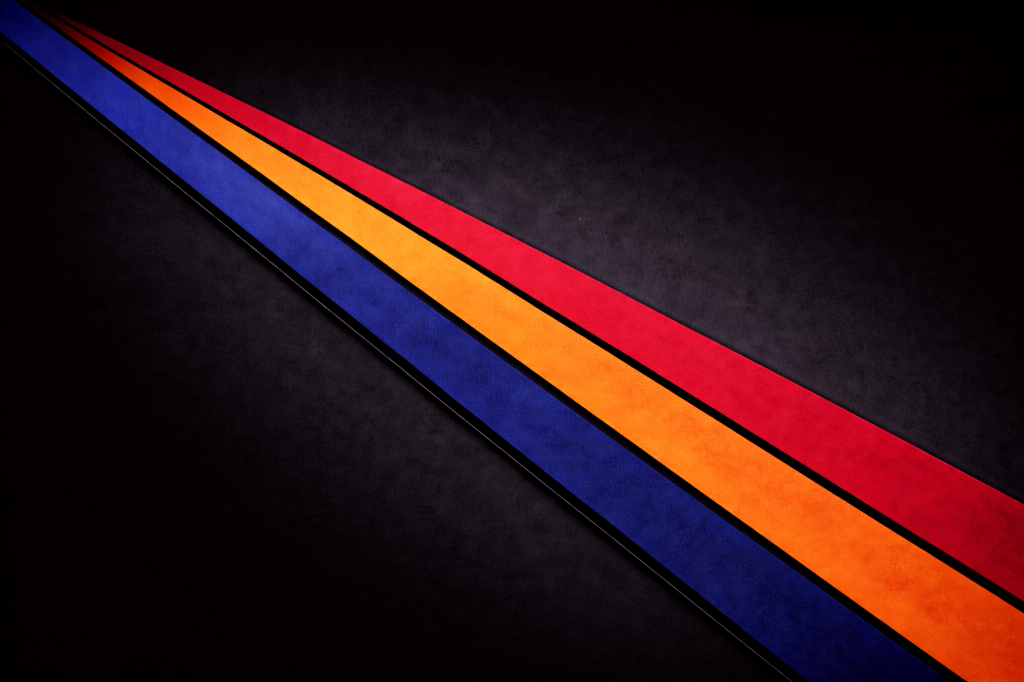
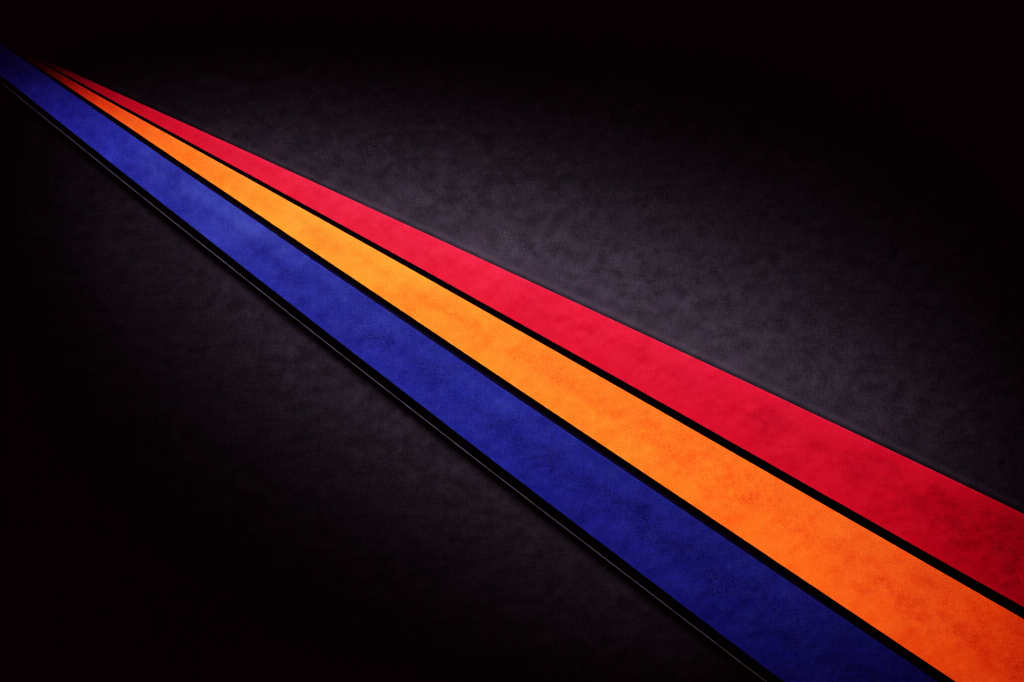
Update dashboard background image and fix scaling

Changed region(s): [[0.0, 0.0, 1.0, 1.0]]

diff --git a/src/app/(user)/layout.tsx b/src/app/(user)/layout.tsx
@@ -103,7 +103,10 @@ function DashboardContent({ children }: { children: React.ReactNode }) {
             {/* Fixed Background Image */}
             <div
                 className="fixed inset-0 -z-20 bg-cover bg-center bg-no-repeat"
-                style={{ backgroundImage: "url('/dashboard-bg.png')" }}
+                style={{
+                    backgroundImage: "url('/dashboard-bg.png')",
+                    backgroundColor: "#0a0a0a"
+                }}
             />
 
             <DashboardNav />

diff --git a/src/app/admin/layout.tsx b/src/app/admin/layout.tsx
@@ -23,7 +23,8 @@ function AdminContent({ children }: { children: React.ReactNode }) {
                     backgroundImage: 'url("/dashboard-bg.png")',
                     backgroundSize: 'cover',
                     backgroundPosition: 'center',
-                    backgroundAttachment: 'fixed'
+                    backgroundRepeat: 'no-repeat',
+                    backgroundColor: '#0a0a0a'
                 }}
             />
 
